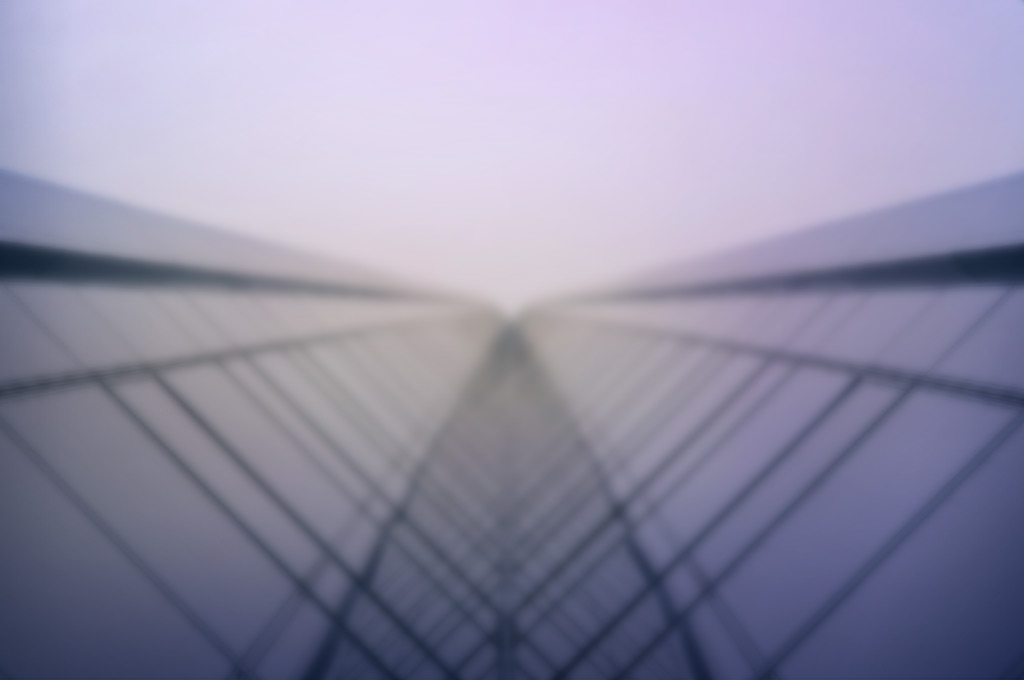
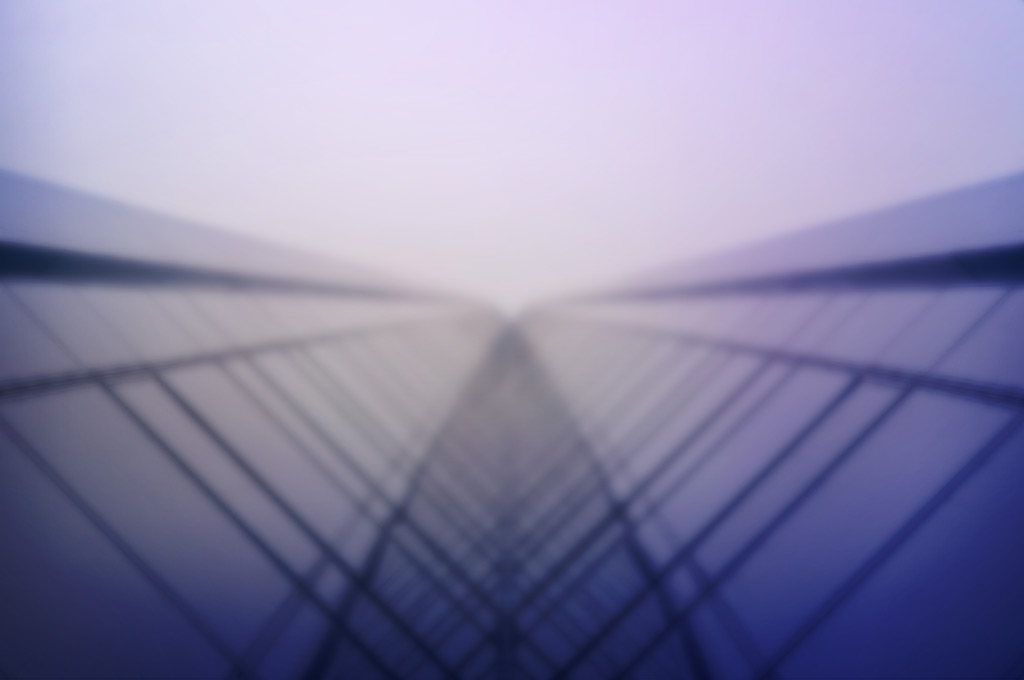
added a blue hue to the bottom

Changed region(s): [[0.0, 0.5559, 1.0, 1.0], [0.8438, 0.6176, 0.875, 0.6485]]

diff --git a/interface/client/styles/splashScreen.import.less b/interface/client/styles/splashScreen.import.less
@@ -21,7 +21,7 @@
     -webkit-app-region: drag;
 
     &.wallet {
-        background-image: url('/images/bg-homestead.jpg?7');
+        background-image: url('/images/bg-homestead.jpg?8');
 
         h1 {
             color: #fff;
